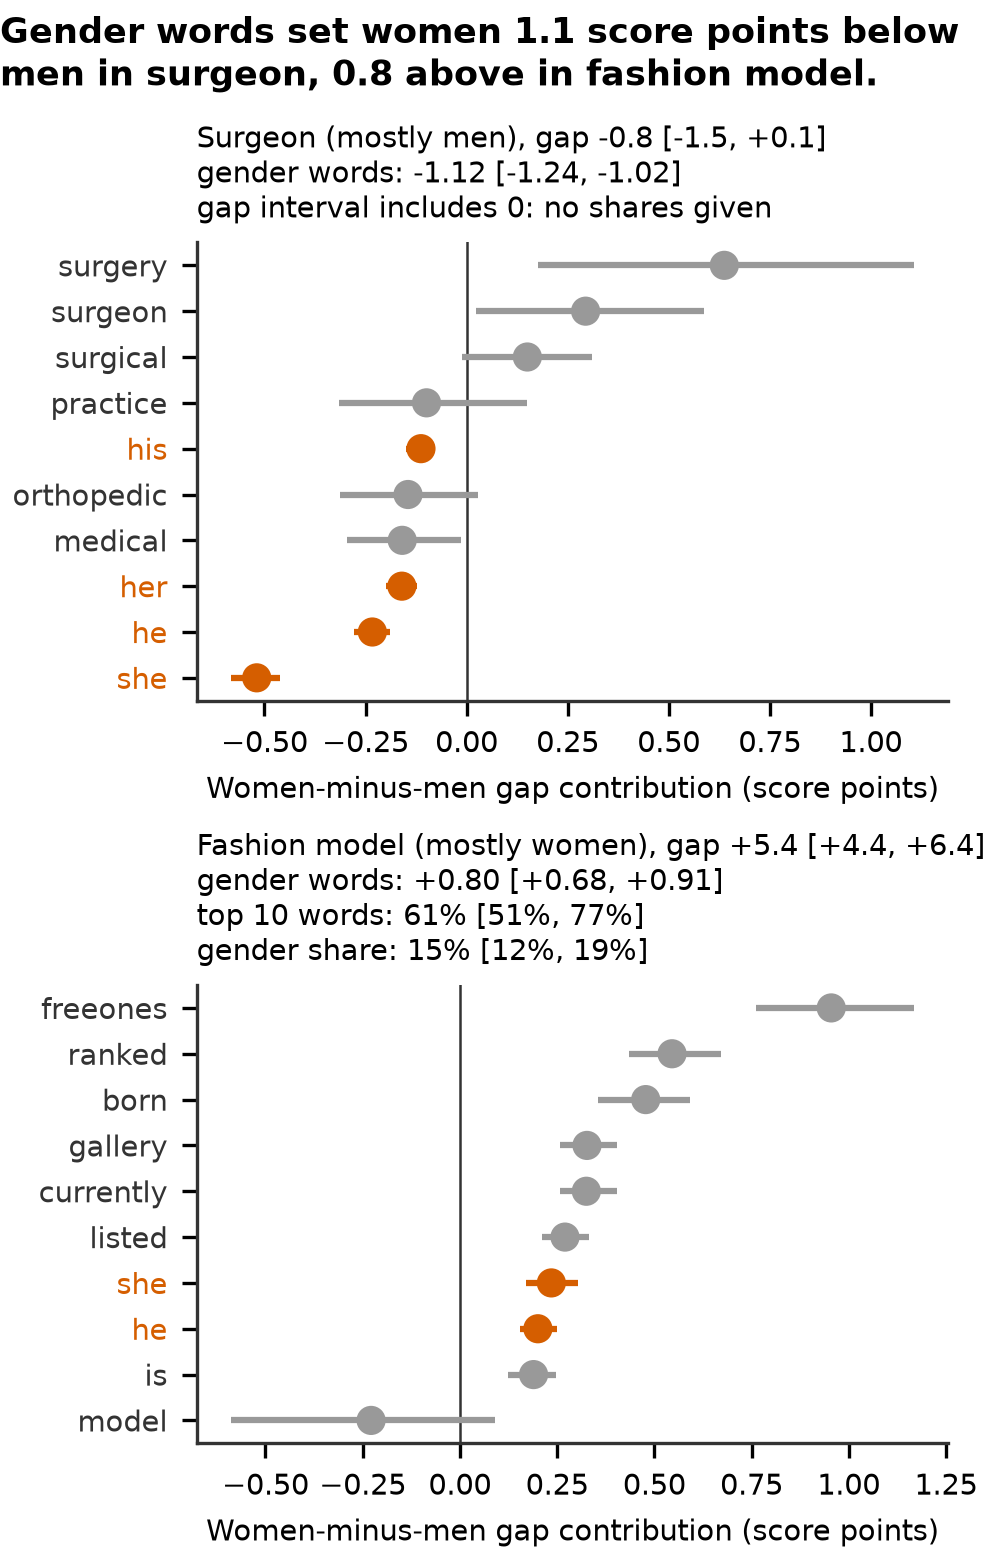
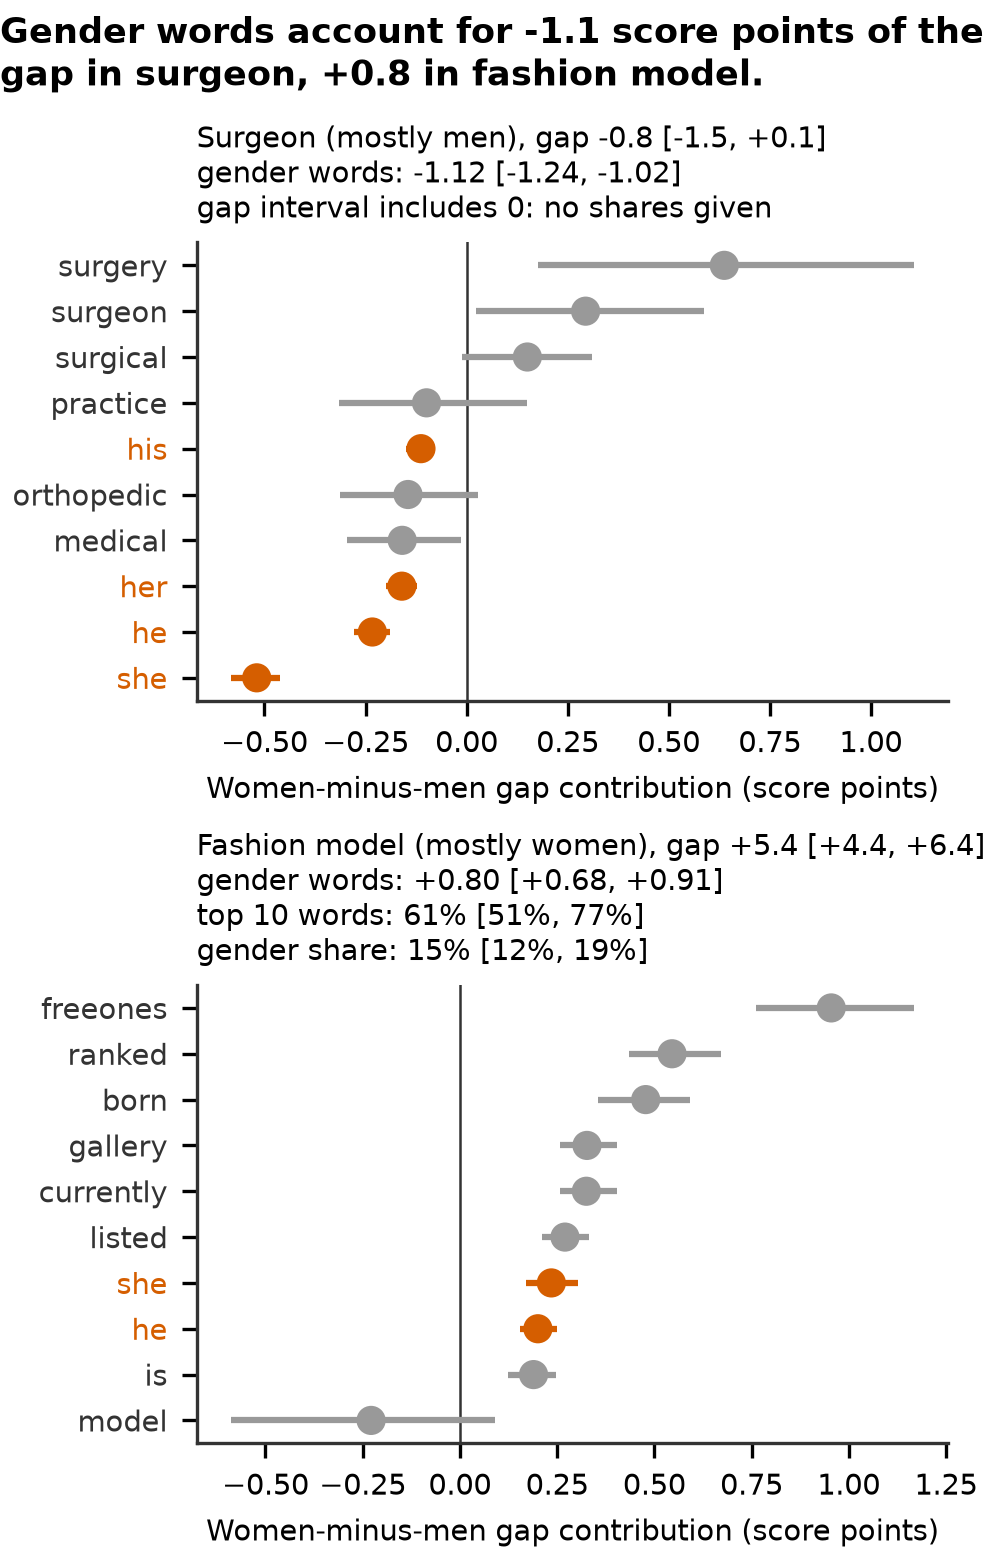
F3 title: gender words account for part of the score gap, they do not set it

Changed region(s): [[0.0, 0.0, 0.8788, 0.0615], [0.9091, 0.0, 1.0, 0.0308]]

diff --git a/scripts/figure_f3.py b/scripts/figure_f3.py
@@ -35,24 +35,26 @@ WHO_HOLDS = {"male_dominated": "mostly men", "female_dominated": "mostly women"}
 
 
 def title(panels: Sequence[Panel]) -> str:
-    """The finding as one sentence: how far the gender words put women's bios below or above
-    men's in each panel, from the summed gendered contribution (`gendered_sum`).
+    """The finding as one sentence: how much of the score gap the gender words account for in
+    each panel, from the summed gendered contribution (`gendered_sum`).
 
     The sum needs no division, so it is stated even when the total gap includes 0. A panel whose
-    sum has an interval that includes 0 is said to be within noise.
+    sum has an interval that includes 0 has no clear part. The sentence says what the words
+    account for, not what they cause.
     """
-    clauses, first = [], True  # the unit and "men" are named once, to keep the title at two lines
+    clauses = []
     for panel in panels:
         total = panel.summary["gendered_sum"]
+        job = plotting.job_name(panel.occupation)
+        # the unit and "of the score gap" are named once, to keep the title at two lines
+        tail = " of the gap" if not clauses else ""
         if total["ci_low"] <= 0 <= total["ci_high"]:
-            clauses.append(f"within noise in {plotting.job_name(panel.occupation)}")
+            clauses.append(f"no clear part{tail} in {job}")
+        elif not clauses:
+            clauses.append(f"{total['value']:+.1f} score points{tail} in {job}")
         else:
-            side = "above" if total["value"] > 0 else "below"
-            job = plotting.job_name(panel.occupation)
-            unit, reference = (" score points", " men") if first else ("", "")
-            clauses.append(f"{abs(total['value']):.1f}{unit} {side}{reference} in {job}")
-            first = False
-    return f"Gender words set women {', '.join(clauses)}."
+            clauses.append(f"{total['value']:+.1f} in {job}")
+    return f"Gender words account for {', '.join(clauses)}."
 
 
 def _interval(share: dict) -> str:

diff --git a/tests/test_figure_f3.py b/tests/test_figure_f3.py
@@ -167,7 +167,7 @@ def test_the_title_gives_the_summed_gendered_contribution_in_each_panel(figure):
     # bios. Both intervals exclude 0, so both are stated, whatever the total gap does.
     text, lines = _title_lines(figure)
     assert text == (
-        "Gender words account for -1.1 score points of the score gap in surgeon, +0.8 in fashion model."
+        "Gender words account for -1.1 score points of the gap in surgeon, +0.8 in fashion model."
     )
     assert lines <= 2
 
@@ -188,7 +188,7 @@ def test_the_title_covers_two_clear_sums_and_one_within_noise_in_two_lines(f3):
     ]
     text, lines = _title_lines(f3.build(both_above))
     assert text == (
-        "Gender words account for +2.0 score points of the score gap in nurse, +0.8 in fashion model."
+        "Gender words account for +2.0 score points of the gap in nurse, +0.8 in fashion model."
     )
     assert lines <= 2
     engineer = {**_SURGEON_SUMMARY, "gendered_sum": _shares(0.05, -0.06, 0.16)}
@@ -198,7 +198,7 @@ def test_the_title_covers_two_clear_sums_and_one_within_noise_in_two_lines(f3):
     ]
     text, lines = _title_lines(f3.build(one_clear))
     assert text == (
-        "Gender words account for -1.1 score points of the score gap in surgeon, no clear part in composer."
+        "Gender words account for -1.1 score points of the gap in surgeon, no clear part in composer."
     )
     assert lines <= 2
 
@@ -206,7 +206,7 @@ def test_the_title_covers_two_clear_sums_and_one_within_noise_in_two_lines(f3):
 def test_a_sum_whose_interval_ends_at_zero_is_no_clear_part(f3):
     touching = {**_MODEL_SUMMARY, "gendered_sum": _shares(0.3, 0.0, 0.6)}
     text = f3.title([f3.Panel("model", "female_dominated", MODEL_WORDS, touching)])
-    assert text == "Gender words account for no clear part of the score gap in fashion model."
+    assert text == "Gender words account for no clear part of the gap in fashion model."
 
 
 def test_each_panel_header_gives_its_total_gap_and_either_the_shares_or_why_there_are_none(figure):
